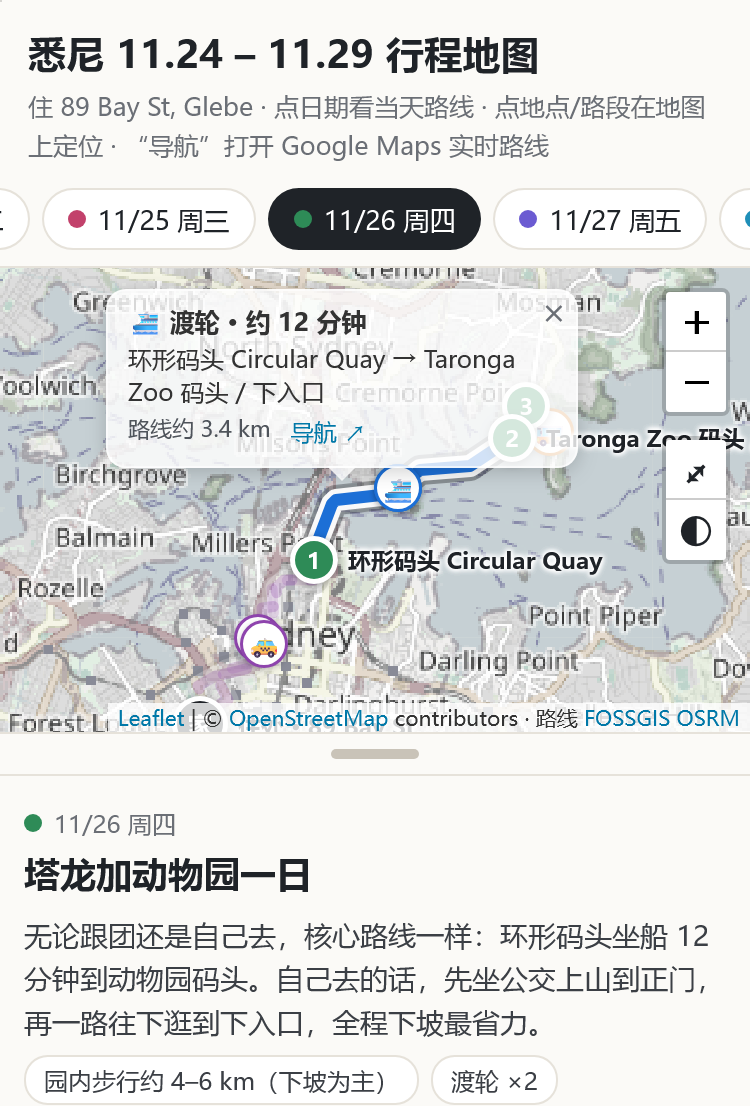
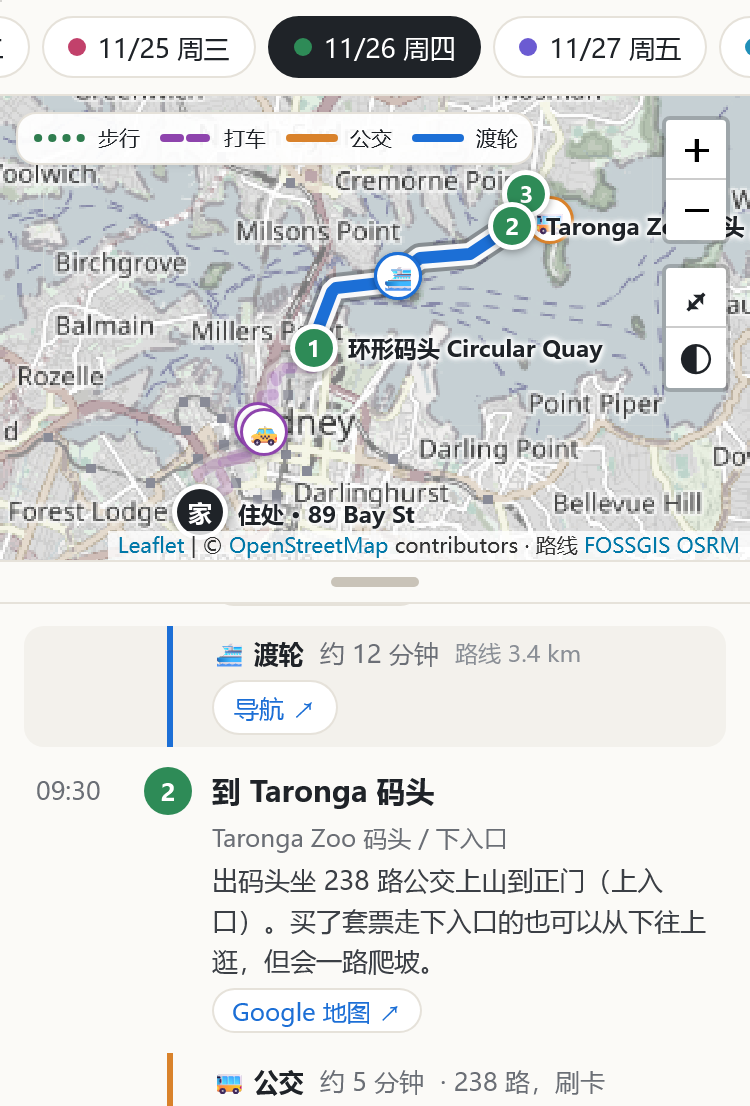
Drop map popups; selection highlights only; collapse Google list
- No more popups: everything they showed is already in the timeline.
  Selecting a stop or a leg (in the timeline or on the map) highlights
  it on the map and marks the matching timeline row. Tapping a point
  on the map leaves the map still and scrolls the timeline to it;
  tapping a timeline row pans the map there at the current zoom.
  Tapping empty map clears the selection.
- The per-place "Google 地图" link moved from the popup into each stop
  row of the timeline.
- The "在 Google 地图看真实路线" list now starts collapsed.

diff --git a/app.js b/app.js
@@ -179,8 +179,8 @@ map.on("click",e=>{
   const mk=nearestMarker(cp,coarse?28:20)||(oe&&labelAt(oe.clientX,oe.clientY));
   if(mk){selectStop(mk.d,mk.p,true);return}
   const lg=nearestLeg(cp,coarse?14:9);
-  if(lg){openLegPop(lg,e.latlng);return}
-  map.closePopup();
+  if(lg){selectLeg(lg,true);return}
+  clearSel(); // 点地图空白处：取消高亮
 });
 const tip=document.getElementById("tip");
 function showTip(cp,t){tip.textContent=t;tip.style.display="block";
@@ -195,33 +195,30 @@ map.on("mousemove",e=>{if(coarse)return;cancelAnimationFrame(hoverRaf);hoverRaf=
   mapEl.style.cursor="";hideTip()})});
 map.on("mouseout dragstart zoomstart",hideTip);
 
-/* ---------- 弹窗（autoPan + 宽度随地图，保证不超出地图） ---------- */
-// 弹窗：窄一点、字小一点、半透明（样式见 app.css .pp）；只在打开时自动挪一次，之后可以自由拖走地图
-function popOpts(offY){const w=mapwrap.clientWidth;return{maxWidth:Math.max(140,Math.min(isNarrow()?200:240,w-70)),minWidth:Math.min(120,w-90),
-  autoPan:true,keepInView:false,offset:L.point(0,offY??4),
-  autoPanPaddingTopLeft:L.point(8,isNarrow()?10:56),autoPanPaddingBottomRight:L.point(8,16),closeButton:true,className:"pp"}}
-function openStopPop(d,p){
-  const pl=P[p];const items=visibleItems(d).filter(i=>!i.leg&&i.p===p);const it=items[0];
-  const times=items.map(i=>i.t).join(" / ");
-  const head=pl.sub?`<div class="d">属于「${shortN(pl.sub)}」这一站（跟团）</div>`:(it&&it.h&&it.h!==pl.n?`<div class="d">${it.h}</div>`:"");
-  const html=`<h4>${pl.n}</h4><div class="t">${d.date} ${d.wk}${times?" · "+times:""}</div>${head}<div class="acts"><a href="${gmPlace(pl)}" target="_blank" rel="noopener">Google 地图 ↗</a></div>`;
-  L.popup(popOpts(-8)).setLatLng(pl.ll).setContent(html).openOn(map); // 上移一点，尖角落在标记上方，不压住标记
-}
-function openLegPop(x,at){
-  const lg=x.lg,m=MODES[lg.mode],info=legInfo(lg);
-  const km=info&&info.dist&&info.kind!=="schematic"&&!lg.durOrig?`<span class="t">路线约 ${fmtDist(info.dist)}</span>`:"";
-  const html=`<h4>${m.ic} ${m.n} · ${lg.dur}</h4><div class="d">${shortN(lg.from)} → ${shortN(lg.to)}</div>${lg.note?`<div class="t">${lg.note}</div>`:""}${info&&info.kind==="schematic"?`<div class="t">园内路线为示意</div>`:""}<div class="acts">${km}${NO_NAV.has(lg.to)?"":`<a href="${gmDir(lg.from,lg.to,lg.mode)}" target="_blank" rel="noopener">导航 ↗</a>`}</div>`;
-  highlightLeg(x);
-  L.popup(popOpts()).setLatLng(at||midpoint(x.ll)).setContent(html).openOn(map);
-}
-let hlTimer=0;
+/* ---------- 选中：不弹气泡（内容在下面的行程里都有），只高亮地图上的点/路线和行程里对应那一行 ---------- */
 function highlightLeg(x){
   legLines.forEach(o=>legOpacity(o,o===x));
-  x.halo.bringToFront();x.casing.bringToFront();x.line.bringToFront();clearTimeout(hlTimer);
+  x.halo.bringToFront();x.casing.bringToFront();x.line.bringToFront();
 }
-map.on("popupopen",()=>mapwrap.classList.add("popopen"));
-map.on("popupclose",()=>{mapwrap.classList.remove("popopen");legLines.forEach(o=>legOpacity(o));
-  document.querySelectorAll(".leg.sel").forEach(e=>e.classList.remove("sel"))});
+function clearSel(){
+  state.sel=null;applySel();
+  legLines.forEach(o=>legOpacity(o));
+  content.querySelectorAll(".leg.sel,.stop.sel").forEach(e=>e.classList.remove("sel"));
+}
+// 把行程里对应的那一行滚到地图下方可见处
+function revealRow(li){
+  if(!li)return;
+  if(!isNarrow()){li.scrollIntoView({block:"center",behavior:"smooth"});return}
+  const r=li.getBoundingClientRect(),top=tabs.offsetHeight+mapwrap.offsetHeight;
+  if(r.top>=top+4&&r.bottom<=window.innerHeight-8)return; // 已经看得到就不滚
+  window.scrollTo({top:r.top+window.scrollY-(top+10),behavior:"smooth"});
+}
+// 选中一段路线：高亮它；从地图上点的，行程里滚到那一段
+function selectLeg(x,fromMap){
+  clearSel();highlightLeg(x);
+  const li=content.querySelector(`.leg[data-i="${visibleItems(x.d).indexOf(x.lg)}"]`);
+  if(li){li.classList.add("sel");if(fromMap)revealRow(li)}
+}
 const fmtDist=m=>m>=1000?(m/1000).toFixed(m>=10000?0:1)+" km":Math.round(m/10)*10+" m";
 
 /* ---------- 视野 ---------- */
@@ -250,7 +247,6 @@ function flyPoint(ll,z){
   try{map.flyTo(ll,z,{duration:.5})}catch(e){map.setView(ll,z,{animate:false})}
 }
 function fitDay(){
-  map.closePopup();
   if(!state.day){ // 总览：市区（蓝山团车线往西出画）
     const all=[];DAYS.forEach(d=>stopsOf(d).forEach(s=>{if(s.p!=="bluemtn")all.push(P[s.p].ll)}));all.push(P.airport.ll);
     fitLL(all,{maxZoom:14});return}
@@ -313,7 +309,7 @@ function gmSegments(d){
 }
 function gmBlock(d){
   const segs=gmSegments(d);
-  let h=`<details class="gm" open><summary>🗺 在 Google 地图看真实路线 <span>可导航 · 实时班次 · ${segs.length} 段</span></summary><div class="gmlist">`;
+  let h=`<details class="gm"><summary>🗺 在 Google 地图看真实路线 <span>可导航 · 实时班次 · ${segs.length} 段</span></summary><div class="gmlist">`;
   segs.forEach(sg=>{const m=MODES[sg.mode];
     const label=sg.stops.map(shortN).join(" → ");
     const tag=sg.mode==="coach"?"团车路线参考":sg.mode==="walk"?(sg.stops.length>2?"步行全程":"步行"):m.n;
@@ -340,7 +336,7 @@ function renderLegend(){
   lg.innerHTML=Object.entries(MODES).filter(([k])=>used.has(k)).map(([k,m])=>`<span>${sw(m,k)}${m.n}</span>`).join("");
 }
 function go(id,push=true,keepView=false){
-  state.day=id;state.sel=null;map.closePopup();renderTabs();renderContent();render();renderLegend();if(!keepView)fitDay();
+  state.day=id;state.sel=null;renderTabs();renderContent();render();renderLegend();if(!keepView)fitDay();
   if(push){try{history.replaceState(null,"",id?"#"+id:"#overview")}catch(e){}}
   content.scrollTop=0;if(isNarrow())window.scrollTo({top:0});
 }
@@ -359,29 +355,25 @@ function renderContent(){
       h+=`<li class="leg" data-i="${idx}"><div></div><div class="rail"><i style="border-left-color:${m.c};border-left-style:${it.mode==="walk"?"dotted":"solid"}"></i></div><div class="body"><span class="mode">${m.ic} ${m.n}</span><span>${it.dur}</span>${it.note?`<span>· ${it.note}</span>`:""}${km}${NO_NAV.has(it.to)?"":`<a class="nav" href="${gmDir(it.from,it.to,it.mode)}" target="_blank" rel="noopener">导航 ↗</a>`}${it.alt?`<span class="alt">替代：${it.alt}</span>`:""}</div></li>`;
     }else{const pl=P[it.p];
       const badge=pl.home?`<span class="badge" style="background:#1F2328">家</span>`:`<span class="badge" style="background:${it.extra?"#9AA0A6":d.color}">${num[it.p]}</span>`;
-      h+=`<li class="stop" data-p="${it.p}" data-i="${idx}"><div class="time">${it.t}</div>${badge}<div><h3>${it.h}${it.opt?'<span class="opt">可选</span>':""}</h3><div style="font-size:12px;color:#6B6F76">${pl.n}</div>${it.d?`<p>${it.d}</p>`:""}${it.tip?`<span class="tipline">${it.tip}</span>`:""}</div></li>`;
+      h+=`<li class="stop" data-p="${it.p}" data-i="${idx}"><div class="time">${it.t}</div>${badge}<div><h3>${it.h}${it.opt?'<span class="opt">可选</span>':""}</h3><div style="font-size:12px;color:#6B6F76">${pl.n}</div>${it.d?`<p>${it.d}</p>`:""}${it.tip?`<span class="tipline">${it.tip}</span>`:""}<div class="acts"><a class="nav" href="${gmPlace(pl)}" target="_blank" rel="noopener">Google 地图 ↗</a></div></div></li>`;
     }
   });
   h+=`</ol>`;
   const i=DAYS.indexOf(d);
   h+=`<div style="display:flex;justify-content:space-between;margin-top:16px">${i>0?`<a href="#" data-go="${DAYS[i-1].id}">← ${DAYS[i-1].date}</a>`:"<span></span>"}${i<DAYS.length-1?`<a href="#" data-go="${DAYS[i+1].id}">${DAYS[i+1].date} →</a>`:`<a href="#" data-go="">回总览</a>`}</div>`;
   content.innerHTML=h;
-  content.querySelectorAll(".seg button").forEach(b=>b.onclick=()=>{state.variant[d.id]=b.dataset.v;state.sel=null;map.closePopup();renderContent();render();renderLegend();fitDay()});
-  content.querySelectorAll(".stop").forEach(li=>li.onclick=()=>selectStop(d.id,li.dataset.p,false,+li.dataset.i));
+  content.querySelectorAll(".seg button").forEach(b=>b.onclick=()=>{state.variant[d.id]=b.dataset.v;state.sel=null;renderContent();render();renderLegend();fitDay()});
+  content.querySelectorAll(".stop").forEach(li=>li.onclick=e=>{if(e.target.closest("a"))return;selectStop(d.id,li.dataset.p,false,+li.dataset.i)});
   const vis=visibleItems(d);
   content.querySelectorAll(".leg").forEach(li=>li.addEventListener("click",e=>{if(e.target.closest("a"))return;
     const lg=vis[+li.dataset.i];const x=legLines.find(o=>o.lg===lg);if(!x)return;
-    content.querySelectorAll(".leg.sel,.stop.sel").forEach(e=>e.classList.remove("sel"));
-    map.closePopup();
+    selectLeg(x,false);
     // 保持当前缩放，只平移到这段路线；这段在当前比例下放不下时才缩小，绝不放大
     const pad=isNarrow()?L.point(20,24):L.point(56,56);
     flyView(L.latLngBounds(x.ll),{paddingTopLeft:pad,paddingBottomRight:pad,maxZoom:map.getZoom()});
-    map.once("moveend",()=>{openLegPop(x);li.classList.add("sel")});
-    scrollMapIntoView();
   }));
   content.querySelectorAll("[data-go]").forEach(a=>a.onclick=e=>{e.preventDefault();go(a.dataset.go||null)});
 }
-function scrollMapIntoView(){ /* 手机上地图是 sticky 的，一直在视野里；桌面无需滚动 */ }
 function applySel(){
   markers.forEach(x=>{const e=x.el&&x.el.querySelector(".mk");if(!e)return;e.classList.toggle("sel",x.p===state.sel);e.classList.toggle("dim",!!state.sel&&x.p!==state.sel)});
   markers.forEach(x=>x.m.setZIndexOffset(x.p===state.sel?1000:(P[x.p].home?500:200)));
@@ -399,27 +391,25 @@ function showIncoming(d,inc){
   const vis=visibleItems(d);
   inc.forEach(lg=>{const li=content.querySelector(`.leg[data-i="${vis.indexOf(lg)}"]`);if(li)li.classList.add("sel")});
 }
-// 只平移、不改缩放；目的地放在中心偏下，上方给弹窗留位置
-function panKeep(ll,below){
+// 只平移、不改缩放，把目的地移到地图中央
+function panKeep(ll){
   const sz=map.getSize();
   if(!sz.x){map.fire("moveend");return}
-  const c=map.unproject(map.project(ll).subtract([0,Math.round(sz.y*(below??.18))]));
+  const c=L.latLng(ll);
   if(map.latLngToContainerPoint(c).distanceTo(sz.divideBy(2))<2){map.fire("moveend");return}
   map.panTo(c,{animate:true,duration:.45});
 }
 function selectStop(dayId,p,fromMap,idx){
   if(state.day!==dayId)go(dayId,true,true); // 换到那一天，但保持当前缩放
+  clearSel();
   state.sel=p;applySel();
   content.querySelectorAll(".stop").forEach(li=>li.classList.toggle("sel",idx!=null?+li.dataset.i===idx:li.dataset.p===p));
   const d=dayById(dayId);
-  map.closePopup(); // 会先把之前的高亮复原
-  content.querySelectorAll(".leg.sel").forEach(e=>e.classList.remove("sel"));
   showIncoming(d,incomingLegs(d,p,idx));
-  map.once("moveend",()=>{openStopPop(d,p);declutter()});
-  panKeep(P[p].ll);
-  if(fromMap){const li=content.querySelector(`.stop[data-p="${p}"]`)||content.querySelector(`.stop[data-p="${P[p].sub}"]`);
-    if(li){if(!isNarrow())li.scrollIntoView({block:"center",behavior:"smooth"});
-      else{const top=li.getBoundingClientRect().top+window.scrollY-(tabs.offsetHeight+mapwrap.offsetHeight+10);window.scrollTo({top,behavior:"smooth"})}}}
+  requestAnimationFrame(declutter);
+  if(fromMap){ // 在地图上点的：点本来就在眼前，地图不动；行程滚到这一站
+    revealRow(content.querySelector(`.stop[data-p="${p}"]`)||content.querySelector(`.stop[data-p="${P[p].sub}"]`));
+  }else panKeep(P[p].ll); // 在行程里点的：地图平移过去，缩放不变
 }
 function renderOverview(){
   let h=`<div class="note blue" style="margin-top:0">总体思路：<b>住在 Glebe，离市中心 3–5 km</b>。进城最省事是打车（约 15–20 分钟），公交 431/433 路沿 Glebe Point Rd 进城也很方便。城里景点之间 1 km 内步行，远一点用火车/轻轨/渡轮，回家累了直接打车。</div>`;

diff --git a/app.css b/app.css
@@ -28,7 +28,6 @@ nav.tabs::-webkit-scrollbar{display:none}
 /* 地图和行程之间的拖动条（只在手机布局显示） */
 .resizer{display:none}
 .legend{position:absolute;left:10px;top:10px;z-index:900;transition:opacity .15s;background:rgba(255,255,255,.94);border:1px solid var(--line);border-radius:10px;padding:6px 9px;font-size:11.5px;display:flex;flex-wrap:wrap;gap:3px 11px;max-width:calc(100% - 70px);pointer-events:none;box-shadow:0 1px 3px rgba(0,0,0,.08)}
-.mapwrap.popopen .legend{opacity:0;visibility:hidden} /* 弹窗打开时收起图例，小屏上不会挡住弹窗 */
 .legend span{display:inline-flex;align-items:center;gap:5px;white-space:nowrap}
 .legend svg{display:block}
 #tip{position:absolute;z-index:1000;pointer-events:none;background:var(--ink);color:#fff;font-size:12px;padding:4px 8px;border-radius:6px;display:none;white-space:nowrap;max-width:calc(100% - 12px);overflow:hidden;text-overflow:ellipsis}
@@ -52,19 +51,6 @@ nav.tabs::-webkit-scrollbar{display:none}
 .mk.sel .lbl{visibility:visible;z-index:2}
 .modeic{width:24px;height:24px;border-radius:50%;background:#fff;border:1.8px solid;display:flex;align-items:center;justify-content:center;font-size:13px;box-shadow:0 1px 3px rgba(0,0,0,.2)}
 
-/* 弹窗：小号 + 半透明（背景模糊，透出下面的地图） */
-.pp .leaflet-popup-content-wrapper{border-radius:10px;background:rgba(255,255,255,.8);
-  -webkit-backdrop-filter:blur(6px) saturate(1.3);backdrop-filter:blur(6px) saturate(1.3);
-  box-shadow:0 2px 10px rgba(0,0,0,.18);border:1px solid rgba(255,255,255,.6)}
-.pp .leaflet-popup-tip{background:rgba(255,255,255,.8);box-shadow:none;width:12px;height:12px;margin:-7px auto 0}
-.pp .leaflet-popup-tip-container{width:28px;height:14px;margin-left:-14px}
-.pp .leaflet-popup-content{margin:6px 22px 6px 9px;font-size:12px;line-height:1.4}
-.pp .leaflet-popup-content h4{margin:0 0 1px;font-size:12.5px;line-height:1.3}
-.pp .leaflet-popup-content .t{color:#4F545B;font-size:11px}
-.pp .leaflet-popup-content .d{margin-top:2px}
-.pp .leaflet-popup-content a{display:inline-block;padding:2px 0;font-size:11.5px}
-.pp .leaflet-popup-content .acts{margin-top:2px;display:flex;gap:10px;flex-wrap:wrap}
-.pp a.leaflet-popup-close-button{width:24px;height:24px;font-size:16px;line-height:22px;color:#6B6F76}
 
 /* ---------- 侧栏内容（沿用原页面） ---------- */
 .dayhead{margin:2px 0 12px}
@@ -87,6 +73,8 @@ nav.tabs::-webkit-scrollbar{display:none}
 .stop h3{font-size:14.5px;margin:1px 0 2px}
 .stop p{margin:2px 0;color:#3b3f45;font-size:13px}
 .stop .tipline{font-size:12px;color:#7a5b00;background:#FFF6DA;border-radius:6px;padding:3px 7px;margin-top:4px;display:inline-block}
+.stop .acts{margin-top:4px}
+.stop .acts .nav{font-size:12px;border:1px solid var(--line);border-radius:999px;padding:1px 9px;background:#fff;display:inline-block}
 .stop .opt{font-size:11px;color:#fff;background:#9AA0A6;border-radius:4px;padding:0 5px;margin-left:6px;vertical-align:2px}
 .leg{display:grid;grid-template-columns:46px 26px 1fr;gap:0 8px;padding:0 6px;color:var(--mute);font-size:12.5px;cursor:pointer;border-radius:10px}
 .leg.sel{background:#F3F1EC}
@@ -145,6 +133,5 @@ nav.tabs::-webkit-scrollbar{display:none}
   .stop,.leg,.daycard{scroll-margin-top:calc(var(--tabsH) + var(--mapH) + 12px)}
   .content{border-right:0;overflow:visible;padding:12px 12px 70px}
   .legend{font-size:10.5px;padding:4px 7px;gap:2px 9px;left:8px;top:8px;max-width:calc(100% - 64px)}
-  .leaflet-popup-content{margin:9px 24px 9px 11px;font-size:12.5px}
   .mk .lbl{font-size:11.5px}
 }

diff --git a/tests/check.py b/tests/check.py
@@ -39,15 +39,14 @@ def marker_xy(page, p):
         const r=document.getElementById('map').getBoundingClientRect(); const ll=P_.m.getLatLng(); const pt=m.latLngToContainerPoint(ll);
         return {x:r.left+pt.x, y:r.top+pt.y} }""", p)
 
-def popup_inside(page):
-    """弹窗在地图范围内，并且弹窗标题没有被图例等浮层盖住"""
-    return page.evaluate("""() => { const p=document.querySelector('.leaflet-popup'); if(!p) return null;
-        const a=p.getBoundingClientRect(), b=document.getElementById('mapwrap').getBoundingClientRect();
-        const h=p.querySelector('h4').getBoundingClientRect();
-        const covered=[[h.left+6,h.top+3],[h.left+h.width/2,h.top+3],[h.left+6,h.top+h.height/2],[h.right-6,h.top+h.height/2]]
-          .some(([x,y])=>{const e=document.elementFromPoint(x,y);return !(e && p.contains(e))});
-        return {inside: !covered && a.left>=b.left-1 && a.right<=b.right+1 && a.top>=b.top-1 && a.bottom<=b.bottom+1, covered,
-                text: p.innerText.slice(0,80), a:[a.left,a.top,a.right,a.bottom].map(Math.round), b:[b.left,b.top,b.right,b.bottom].map(Math.round)} }""")
+def sel_state(page):
+    """当前选中状态：选中的地点、地图上高亮的路段、行程里标出的行、标记是否在地图可见范围内、是否出现了气泡（应为没有）"""
+    return page.evaluate("""() => { const a=__app, m=a.map, sel=a.state.sel;
+        const on=a.legLines.filter(o=>o.line.options.opacity>=.99&&a.legLines.some(q=>q.line.options.opacity<.5)).map(o=>`${o.lg.from}>${o.lg.to}`);
+        let visible=null; if(sel){const p=m.latLngToContainerPoint(P[sel].ll),s=m.getSize(); visible=p.x>=0&&p.y>=0&&p.x<=s.x&&p.y<=s.y}
+        return {sel, on, rows:[...document.querySelectorAll('#content .sel')].map(e=>e.innerText.split(String.fromCharCode(10))[0].slice(0,24)),
+                stops:[...document.querySelectorAll('#content .stop.sel')].map(e=>e.dataset.p),
+                visible, popup: !!document.querySelector('.leaflet-popup')} }""")
 
 def common_checks(page, tag):
     # 每天：路线全部来自 routes.json、图例、导航链接、Google 分段链接
@@ -94,38 +93,49 @@ def desktop(pw):
     page.click("nav.tabs .tab:nth-child(3)"); wait_idle(page, 1200)
     check("[桌面] 点日期标签切到 11/25", page.evaluate("__app.state.day") == "day2" and "11/25" in page.inner_text(".dayhead"))
     page.screenshot(path=str(OUT / "desktop-day2.png"))
+    # “在 Google 地图看真实路线”默认收起，点一下展开
+    page.evaluate("__app.go('day2')"); wait_idle(page, 600)
+    closed = page.evaluate("!document.querySelector('details.gm').open")
+    page.click("details.gm summary"); page.wait_for_timeout(200)
+    opened = page.evaluate("document.querySelector('details.gm').open") and page.locator(".gmrow").first.is_visible()
+    check("[桌面] Google 路线列表默认收起，点开可见", closed and opened)
     # 步行时间按 4 km/h 和真实路线长度重算（鱼市场→Broadway 1434 m ≈ 22 分钟；Argyle 上坡 518 m ×1.25 ≈ 10 分钟）
     page.evaluate("__app.go('day1')"); wait_idle(page, 600)
     t1 = page.inner_text("#content")
     page.evaluate("__app.go('day2')"); wait_idle(page, 600)
     t2 = page.inner_text("#content")
     check("[桌面] 步行时间按 4 km/h 重算", "约 22 分钟 · 1.4 km" in t1 and "约 10 分钟 · 520 m · 上坡" in t2 and "约 12 分钟 · 850 m" not in t1)
-    # 时间线点地点 → 地图定位 + 弹窗
-    page.click(".stop[data-p='bstairs']"); page.wait_for_timeout(1300)
-    pi = popup_inside(page)
-    check("[桌面] 时间线点地点：弹窗出现且在地图内", pi and pi["inside"] and "Bridge Stairs" in pi["text"], str(pi))
-    page.screenshot(path=str(OUT / "desktop-stop-popup.png"))
+    # 时间线点地点 → 地图平移过去并高亮，不弹气泡
+    page.click(".stop[data-p='bstairs'] h3"); page.wait_for_timeout(1300)
+    st = sel_state(page)
+    check("[桌面] 时间线点地点：地图平移到该点并高亮去它的路段，无气泡", st["sel"] == "bstairs" and st["visible"] and st["on"] == ["obs>bstairs"] and not st["popup"], str(st))
+    page.screenshot(path=str(OUT / "desktop-stop-selected.png"))
+    check("[桌面] 每个地点一行里有 Google 地图链接", page.locator(".stop[data-p='bstairs'] a.nav").first.get_attribute("href").startswith("https://www.google.com/maps/search/"))
     # 地图上点标记
     page.evaluate("__app.go('day2')"); wait_idle(page, 1200)
     xy = marker_xy(page, "obs")
     page.mouse.click(xy["x"], xy["y"]); page.wait_for_timeout(1300)
-    check("[桌面] 地图上点标记 → 选中并弹窗", page.evaluate("__app.state.sel") == "obs" and "天文台" in (popup_inside(page) or {}).get("text", ""),
-          page.evaluate("__app.state.sel"))
+    st = sel_state(page)
+    check("[桌面] 地图上点标记 → 选中、行程标出这一站，无气泡", st["sel"] == "obs" and st["stops"] == ["obs"] and not st["popup"], str(st))
+    mb = page.locator("#map").bounding_box()
+    page.mouse.click(mb["x"] + 18, mb["y"] + mb["height"] * 0.55); page.wait_for_timeout(500)  # 地图左边缘，当天没有路线经过
+    st = sel_state(page)
+    check("[桌面] 点地图空白处 → 取消高亮", st["sel"] is None and not st["rows"] and not st["on"], str(st))
     # 点路段（时间线）→ 显示交通方式
     page.evaluate("__app.go('day2')"); wait_idle(page, 1000)
     z0 = page.evaluate("__app.map.getZoom()")
     page.click(".leg:has-text('渡轮') .mode"); page.wait_for_timeout(1400)
-    pi = popup_inside(page); z1 = page.evaluate("__app.map.getZoom()")
-    check("[桌面] 时间线点路段 → 平移到该段（不放大）并弹出交通方式", pi and "渡轮" in pi["text"] and pi["inside"] and z1 <= z0 + 1e-6, f"zoom {z0}->{z1} {pi}")
-    page.screenshot(path=str(OUT / "desktop-leg-popup.png"))
+    st = sel_state(page); z1 = page.evaluate("__app.map.getZoom()")
+    check("[桌面] 时间线点路段 → 平移到该段（不放大）并高亮，无气泡", st["on"] == ["mpwharf>cq"] and z1 <= z0 + 1e-6 and not st["popup"], f"zoom {z0}->{z1} {st}")
+    page.screenshot(path=str(OUT / "desktop-leg-selected.png"))
     # 地图上点路段
     page.evaluate("__app.go('day2')"); wait_idle(page, 1200)
     mid = page.evaluate("""() => { const x=__app.legLines.find(o=>o.lg.mode==='train'); const m=__app.map;
         const ll=x.ll[Math.floor(x.ll.length/2)]; const pt=m.latLngToContainerPoint(ll); const r=document.getElementById('map').getBoundingClientRect();
         return {x:r.left+pt.x, y:r.top+pt.y} }""")
     page.mouse.click(mid["x"], mid["y"]); page.wait_for_timeout(700)
-    pi = popup_inside(page)
-    check("[桌面] 地图上点路段 → 显示交通方式", pi and "火车" in pi["text"], str(pi))
+    st = sel_state(page)
+    check("[桌面] 地图上点路段 → 高亮并在行程里标出这一段", st["on"] == ["stjames>cqstn"] and any("火车" in r for r in st["rows"]) and not st["popup"], str(st))
     # 大桥那段确实在桥东侧人行道（Cahill Walk）
     r = page.evaluate("__app.ROUTES['walk:bstairs>milsonpark']")
     check("[桌面] 25 号 Bridge Stairs→McDougall St 走海港大桥东侧人行道", "Cahill Walk" in r.get("names", []), ",".join(r.get("names", [])))
@@ -212,19 +222,20 @@ def mobile(pw, key):
     page.evaluate("__app.go('day2')"); wait_idle(page, 1200)
     for tgt, other, frac in (("stmary", "hpb", 0.62), ("hpb", "stmary", 0.38)):
         # 从地图选中地点后页面会平滑滚到时间线对应条目，所以每次都重新定位、等滚动停下再算坐标
-        page.evaluate("__app.map.closePopup(); __app.state.sel=null; __app.map.setView([-33.8705,151.2128],15,{animate:false})")
+        page.evaluate("__app.state.sel=null; __app.map.setView([-33.8705,151.2128],15,{animate:false})")
         page.wait_for_timeout(900)
         a, b = marker_xy(page, "hpb"), marker_xy(page, "stmary")
         d = math.hypot(a["x"] - b["x"], a["y"] - b["y"])
         tx, ty = a["x"] + (b["x"] - a["x"]) * frac, a["y"] + (b["y"] - a["y"]) * frac
         page.touchscreen.tap(tx, ty); page.wait_for_timeout(1300)
         check(f"[{tag}] 两个标记相距 {d:.0f}px，点偏向 {tgt} 的位置 → 选中 {tgt}", page.evaluate("__app.state.sel") == tgt, page.evaluate("__app.state.sel"))
-    # 弹窗不超出地图（地图边缘的点也测）
+    # 从行程选中地图边缘外的点：地图平移过去，点在可见范围内，不出气泡
+    page.evaluate("__app.map.setView([-33.8705,151.2128],15,{animate:false})"); page.wait_for_timeout(400)
     for p in ("mpwharf", "soh", "home", "milsonpark"):
-        page.evaluate(f"__app.selectStop('day2','{p}',false)"); page.wait_for_timeout(1500)
-        pi = popup_inside(page)
-        check(f"[{tag}] {p} 弹窗在地图范围内", pi and pi["inside"], str(pi))
-    shot("popup")
+        page.evaluate(f"__app.selectStop('day2','{p}',false)"); page.wait_for_timeout(1000)
+        st = sel_state(page)
+        check(f"[{tag}] 选中 {p} → 平移到可见范围，无气泡", st["sel"] == p and st["visible"] and not st["popup"], str(st))
+    shot("selected-edge")
     # 时间线点地点（手机）：只平移不缩放；高亮这个点和去它的路段；之后能自由拖走地图
     page.evaluate("__app.go('day2')"); wait_idle(page, 1200)
     page.evaluate("__app.map.setZoom(14,{animate:false})"); page.wait_for_timeout(500)
@@ -232,8 +243,9 @@ def mobile(pw, key):
     z0 = page.evaluate("__app.map.getZoom()")
     page.locator(".stop[data-p='westfield']").tap(); page.wait_for_timeout(1400)
     z1 = page.evaluate("__app.map.getZoom()")
-    check(f"[{tag}] 时间线点地点 → 平移过去、缩放不变、弹窗", page.evaluate("__app.state.sel") == "westfield" and popup_inside(page) is not None and abs(z1 - z0) < 1e-6,
-          f"zoom {z0}->{z1}")
+    st = sel_state(page)
+    check(f"[{tag}] 时间线点地点 → 平移过去、缩放不变、无气泡", st["sel"] == "westfield" and st["visible"] and not st["popup"] and abs(z1 - z0) < 1e-6,
+          f"zoom {z0}->{z1} {st}")
     hl = page.evaluate("""() => __app.legLines.map(o => ({k:`${o.lg.from}>${o.lg.to}`, op:o.line.options.opacity}))""")
     on = [x["k"] for x in hl if x["op"] >= 0.99]; off = [x for x in hl if x["op"] < 0.5]
     check(f"[{tag}] 高亮去这个地点的路段（其余变淡）", on == ["hydepark>westfield"] and len(off) == len(hl) - 1, f"高亮 {on}")
@@ -241,14 +253,13 @@ def mobile(pw, key):
     check(f"[{tag}] 时间线里对应路段同时标出", bool(sel_ok))
     shot("stop-selected")
     # 选中后拖走地图，不应被拉回到选中的地点
-    box = page.locator("#map").bounding_box(); cx, cy = box["x"] + box["width"] / 2, box["y"] + box["height"] * 0.85  # 从弹窗下方开始拖
+    box = page.locator("#map").bounding_box(); cx, cy = box["x"] + box["width"] / 2, box["y"] + box["height"] * 0.7
     p0 = page.evaluate("(()=>{const p=__app.map.latLngToContainerPoint(P.westfield.ll);return [p.x,p.y]})()")
     fingers.start([(cx, cy)])
     for i in range(1, 13): fingers.move([(cx - 12 * i, cy - 4 * i)]); page.wait_for_timeout(16)
     fingers.end(); page.wait_for_timeout(1200)
     p1 = page.evaluate("(()=>{const p=__app.map.latLngToContainerPoint(P.westfield.ll);return [p.x,p.y]})()")
     check(f"[{tag}] 选中后可以自由拖动地图（不会弹回）", p1[0] < p0[0] - 100, f"标记 x {p0[0]:.0f} -> {p1[0]:.0f}")
-    page.evaluate("__app.map.closePopup()")
     # 地图和行程之间的拖动条
     page.evaluate("window.scrollTo(0, 0)"); page.wait_for_timeout(300)
     def handle_y(): b = page.locator("#resizer").bounding_box(); return b["x"] + b["width"] / 2, b["y"] + b["height"] / 2
@@ -282,8 +293,8 @@ def mobile(pw, key):
         const ll=x.ll[Math.floor(x.ll.length*0.4)]; const pt=m.latLngToContainerPoint(ll); const r=document.getElementById('map').getBoundingClientRect();
         return {x:r.left+pt.x, y:r.top+pt.y} }""")
     page.touchscreen.tap(mid["x"], mid["y"]); page.wait_for_timeout(900)
-    pi = popup_inside(page)
-    check(f"[{tag}] 点地图上的路段 → 显示交通方式", pi and "渡轮" in pi["text"] and pi["inside"], str(pi))
+    st = sel_state(page)
+    check(f"[{tag}] 点地图上的路段 → 高亮并在行程里标出，无气泡", st["on"] == ["cq>zoowharf"] and any("渡轮" in r for r in st["rows"]) and not st["popup"], str(st))
     shot("day3-ferry")
     common_checks(page, tag)
     page.evaluate("__app.go(null)"); wait_idle(page, 1000)
